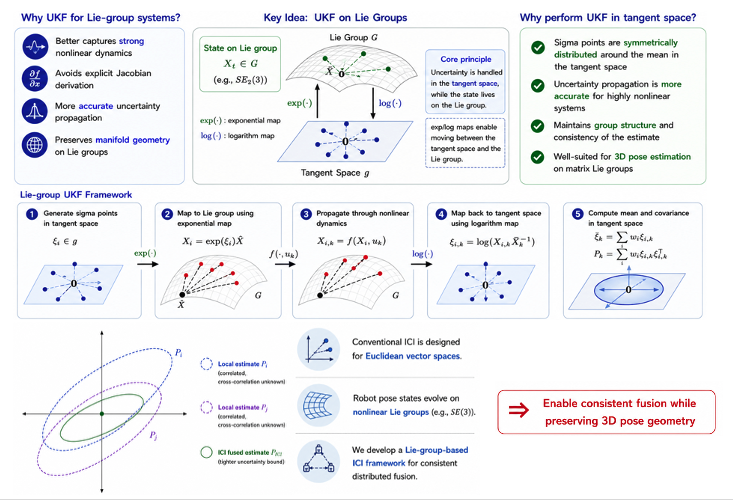
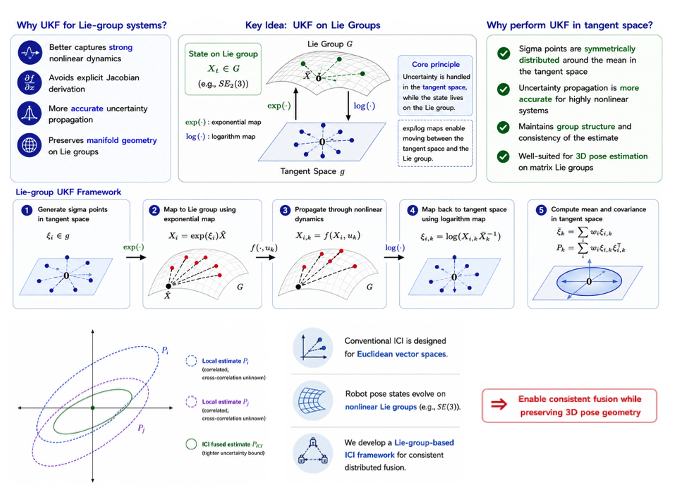
Use sentinel.png for the SENTINEL research card
Replaces the placeholder SVG, which is now removed.

diff --git a/index.html b/index.html
@@ -63,7 +63,7 @@
           </div>
           <div class="rail">
             <article class="rail-card media soft">
-              <img src="assets/proj_img/sentinel.svg" alt="SENTINEL safety evaluation framework preview" loading="lazy">
+              <img src="assets/proj_img/sentinel.png" alt="SENTINEL safety evaluation framework preview" loading="lazy">
               <div>
                 <div class="card-head">
                   <h3><a class="research-title-link" href="https://arxiv.org/abs/2510.12985">SENTINEL: A Multi-Level Formal Framework for Safety Evaluation of LLM-based Embodied Agents</a></h3>